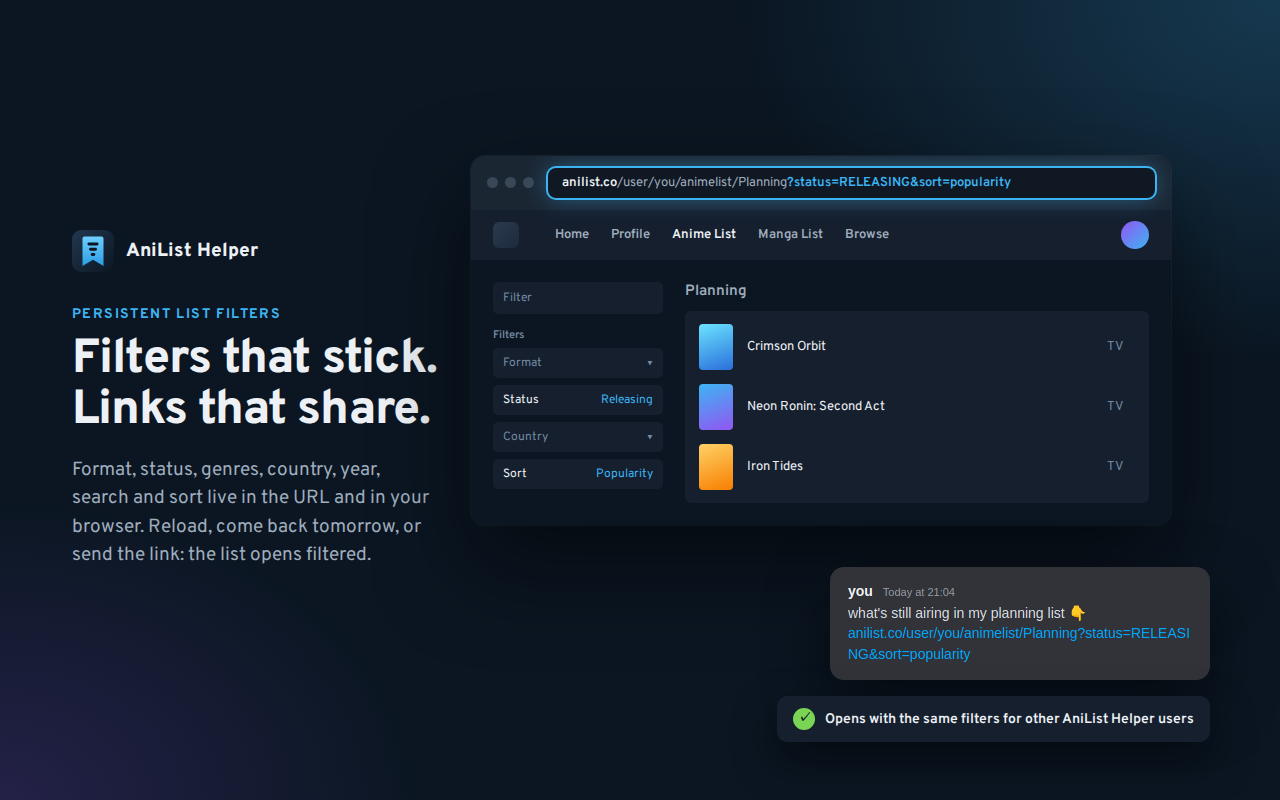
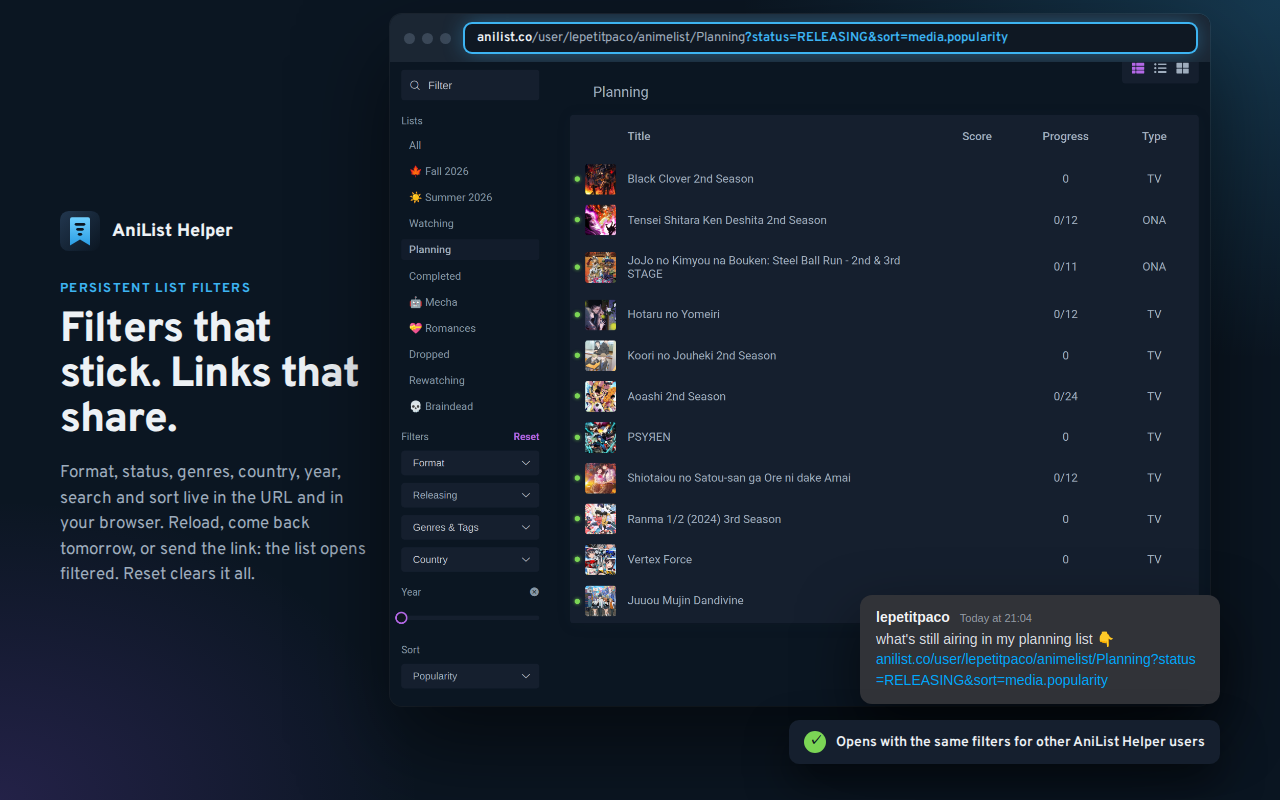
Use real AniList screenshots for the store visuals
store/capture.mjs takes the screenshots on anilist.co with the extension
loaded (one page at a time, as AniList rate limits), scenes.html crops
and frames them. Replaces the mocked interface and the simulated popup.

diff --git a/store/scenes.html b/store/scenes.html
@@ -3,7 +3,8 @@
 <!--
   Store visuals (Chrome Web Store, Firefox Add-ons, GitHub Pages), rendered by store/render.mjs.
   One scene per anchor: #hero, #filters, #bookmarks, #preferences, #popup, #promo, #marquee.
-  AniList's interface is mocked with fictional titles and gradient covers.
+  The pictures are real screenshots of anilist.co with the extension loaded, taken by
+  store/capture.mjs (1440x900 CSS pixels) and cropped here with .crop (--x, --y, --w, --h).
 -->
 <head>
   <meta charset="utf-8">
@@ -13,12 +14,9 @@
     :root {
       --bg: #0b1622;
       --fg: #151f2e;
-      --fg-2: #1c2a3d;
       --text: #9fadbd;
       --bright: #edf1f5;
-      --muted: #728aa1;
       --blue: #3db4f2;
-      --red: #ec294b;
       --green: #7bd555;
     }
     * { box-sizing: border-box; }
@@ -34,130 +32,59 @@
     }
 
     /* Copy column */
-    .copy { width: 470px; flex: none; padding: 0 30px 0 72px; display: flex; flex-direction: column; justify-content: center; }
-    .brand { display: flex; align-items: center; gap: 12px; font-weight: 800; font-size: 19px; color: var(--bright); margin-bottom: 34px; }
-    .brand img { width: 42px; height: 42px; }
-    .kicker { font-weight: 700; font-size: 14px; letter-spacing: .1em; text-transform: uppercase; color: var(--blue); margin-bottom: 12px; }
-    h1 { font-size: 48px; line-height: 1.05; letter-spacing: -.02em; margin: 0 0 20px; font-weight: 800; color: var(--bright); }
-    .lead { font-size: 19px; line-height: 1.5; margin: 0; }
-    .points { list-style: none; padding: 0; margin: 28px 0 0; display: grid; gap: 12px; font-size: 16px; color: var(--bright); }
+    .copy { width: 400px; flex: none; padding: 0 20px 0 60px; display: flex; flex-direction: column; justify-content: center; }
+    .brand { display: flex; align-items: center; gap: 12px; font-weight: 800; font-size: 18px; color: var(--bright); margin-bottom: 30px; }
+    .brand img { width: 40px; height: 40px; }
+    .kicker { font-weight: 700; font-size: 13px; letter-spacing: .1em; text-transform: uppercase; color: var(--blue); margin-bottom: 12px; }
+    h1 { font-size: 42px; line-height: 1.06; letter-spacing: -.02em; margin: 0 0 18px; font-weight: 800; color: var(--bright); }
+    .lead { font-size: 17px; line-height: 1.5; margin: 0; }
+    .points { list-style: none; padding: 0; margin: 24px 0 0; display: grid; gap: 10px; font-size: 15px; color: var(--bright); }
     .points li { display: flex; gap: 12px; align-items: baseline; }
     .points li::before { content: ""; flex: 0 0 8px; height: 8px; border-radius: 50%; background: var(--blue); transform: translateY(-2px); }
-    .stage { flex: 1; display: flex; align-items: center; justify-content: center; position: relative; padding-right: 48px; }
+    .stage { flex: 1; display: flex; flex-direction: column; align-items: center; justify-content: center; gap: 18px; position: relative; padding-right: 40px; }
 
-    /* Browser window */
-    .browser { width: 740px; border-radius: 14px; overflow: hidden; background: var(--bg); box-shadow: 0 40px 90px rgba(0, 0, 0, .55), 0 0 0 1px rgba(255, 255, 255, .06); }
-    .chrome { display: flex; align-items: center; gap: 14px; padding: 12px 16px; background: #1b2633; }
+    /* Browser window around a cropped capture */
+    .browser { width: 820px; border-radius: 12px; overflow: hidden; background: var(--bg); box-shadow: 0 40px 90px rgba(0, 0, 0, .55), 0 0 0 1px rgba(255, 255, 255, .07); }
+    .chrome { display: flex; align-items: center; gap: 14px; padding: 10px 14px; background: #1b2633; }
     .dots { display: flex; gap: 7px; }
     .dots i { width: 11px; height: 11px; border-radius: 50%; background: #3a4757; }
-    .url { flex: 1; padding: 7px 14px; border-radius: 8px; background: #0f1823; font-size: 13px; color: var(--text); white-space: nowrap; overflow: hidden; text-overflow: ellipsis; }
+    .url { flex: 1; padding: 6px 12px; border-radius: 7px; background: #0f1823; font-size: 13px; white-space: nowrap; overflow: hidden; text-overflow: ellipsis; }
     .url b { color: var(--bright); font-weight: 600; }
     .url .q { color: var(--blue); font-weight: 600; }
-    .url.glow { box-shadow: 0 0 0 2px var(--blue), 0 0 24px rgba(61, 180, 242, .45); }
+    .url.glow { box-shadow: 0 0 0 2px var(--blue), 0 0 22px rgba(61, 180, 242, .45); }
+    .crop { position: relative; width: 100%; aspect-ratio: calc(var(--w) / var(--h)); overflow: hidden; }
+    .crop img {
+      position: absolute;
+      width: calc(1440 / var(--w) * 100%);
+      left: calc(var(--x) / var(--w) * -100%);
+      top: calc(var(--y) / var(--h) * -100%);
+    }
 
-    /* AniList-like page */
-    .nav { display: flex; align-items: center; gap: 22px; padding: 0 22px; height: 50px; background: var(--fg); font-size: 13px; font-weight: 600; }
-    .nav .logo { width: 26px; height: 26px; border-radius: 6px; background: linear-gradient(135deg, #2b3a4d, #1c2a3d); margin-right: 14px; }
-    .nav a.on { color: var(--bright); }
-    .nav .bm { color: var(--blue); position: relative; }
-    .nav .spacer { flex: 1; }
-    .nav .me { width: 28px; height: 28px; border-radius: 50%; background: linear-gradient(135deg, #9256f3, #3db4f2); }
-    .page { display: flex; gap: 22px; padding: 22px; }
-    .side { width: 170px; flex: none; font-size: 12px; }
-    .side .search { padding: 8px 10px; border-radius: 5px; background: var(--fg); color: var(--muted); margin-bottom: 14px; }
-    .side h4 { margin: 12px 0 6px; font-size: 11px; color: var(--muted); font-weight: 600; }
-    .side .item { padding: 5px 8px; border-radius: 4px; }
-    .side .item.on { background: var(--fg); color: var(--bright); }
-    .select { display: flex; justify-content: space-between; padding: 7px 10px; margin-bottom: 7px; border-radius: 5px; background: var(--fg); color: var(--muted); }
-    .select.set { color: var(--bright); }
-    .select.set span:last-child { color: var(--blue); }
-    .tags { display: flex; gap: 5px; margin-bottom: 7px; }
-    .tags span { padding: 3px 7px; border-radius: 4px; background: var(--blue); color: #fff; font-size: 11px; font-weight: 600; }
-    .list { flex: 1; min-width: 0; }
-    .list h3 { margin: 0 0 10px; font-size: 15px; color: var(--text); font-weight: 600; }
-    .table { border-radius: 6px; background: var(--fg); padding: 6px 0; }
-    .row { display: flex; align-items: center; gap: 14px; padding: 7px 14px; font-size: 13px; }
-    .row .cv { width: 34px; height: 46px; border-radius: 4px; flex: none; }
-    .row .t { flex: 1; color: var(--bright); }
-    .row .s { width: 44px; text-align: center; }
-    .row .p { width: 54px; text-align: center; }
-    .row .f { width: 40px; text-align: center; color: var(--muted); }
-
-    .c1 { background: linear-gradient(160deg, #ff9a62, #ec294b); }
-    .c2 { background: linear-gradient(160deg, #3db4f2, #9256f3); }
-    .c3 { background: linear-gradient(160deg, #7bd555, #1e8a6b); }
-    .c4 { background: linear-gradient(160deg, #f779a4, #9256f3); }
-    .c5 { background: linear-gradient(160deg, #ffd166, #f77f00); }
-    .c6 { background: linear-gradient(160deg, #6be3ff, #2a6fdb); }
-
-    /* Media page header */
-    .media-head { display: flex; gap: 26px; padding: 26px; background: linear-gradient(180deg, #1a2638 0%, var(--fg) 100%); }
-    .media-head .cover { width: 150px; height: 212px; border-radius: 6px; flex: none; }
-    .media-head h2 { margin: 6px 0 10px; font-size: 22px; color: var(--bright); font-weight: 700; }
-    .media-head p { margin: 0; font-size: 13px; line-height: 1.6; }
-    .actions { display: flex; gap: 10px; margin-top: 14px; }
-    .btn { height: 36px; border-radius: 5px; display: grid; place-items: center; color: #fff; font-size: 13px; font-weight: 600; }
-    .btn.status { width: 116px; background: var(--blue); }
-    .btn.heart { width: 36px; background: var(--red); }
-    .btn.bmk { width: 36px; background: var(--blue); }
-    .btn.glow { box-shadow: 0 0 0 3px rgba(61, 180, 242, .35), 0 0 26px rgba(61, 180, 242, .6); }
-    .btn svg { width: 15px; height: 15px; }
-
-    /* Bookmarks panel */
-    .panel { position: absolute; width: 300px; border-radius: 6px; background: var(--fg); box-shadow: 0 18px 40px rgba(0, 0, 0, .5); font-size: 12px; overflow: hidden; }
-    .panel .ph { display: flex; align-items: center; justify-content: space-between; padding: 11px 13px; border-bottom: 1px solid rgba(159, 173, 189, .15); color: var(--bright); font-weight: 700; font-size: 13px; }
-    .panel .ph span:last-child { padding: 5px 9px; border-radius: 4px; background: rgba(159, 173, 189, .2); color: var(--text); font-size: 12px; }
-    .panel h5 { margin: 10px 13px 5px; font-size: 10px; letter-spacing: .05em; text-transform: uppercase; color: var(--muted); }
-    .panel .bm-row { display: flex; align-items: center; gap: 10px; padding: 5px 13px; }
-    .panel .bm-row .cv { width: 26px; height: 36px; border-radius: 3px; flex: none; }
-    .panel .bm-row b { display: block; color: var(--bright); font-weight: 600; }
-    .panel .bm-row small { color: var(--muted); font-size: 11px; }
-    .chips { display: flex; flex-wrap: wrap; gap: 5px; padding: 0 13px 12px; }
-    .chips span { padding: 4px 8px; border-radius: 4px; background: rgba(159, 173, 189, .12); font-size: 11px; }
-
-    /* Chat bubble (filters scene) */
-    .bubble { position: absolute; width: 380px; padding: 16px 18px; border-radius: 14px; background: #313338; color: #dbdee1; box-shadow: 0 24px 60px rgba(0, 0, 0, .5); font-family: -apple-system, "Segoe UI", sans-serif; }
+    /* Callouts */
+    .bubble { position: absolute; width: 360px; padding: 14px 16px; border-radius: 12px; background: #313338; color: #dbdee1; box-shadow: 0 24px 60px rgba(0, 0, 0, .55); font-family: -apple-system, "Segoe UI", sans-serif; }
     .bubble .who { font-weight: 600; color: #f2f3f5; font-size: 14px; margin-bottom: 4px; }
     .bubble .who time { font-weight: 400; color: #949ba4; font-size: 11px; margin-left: 6px; }
     .bubble p { margin: 0; font-size: 14px; line-height: 1.45; }
     .bubble a { color: #00a8fc; text-decoration: none; word-break: break-all; }
-    .toast { position: absolute; display: flex; align-items: center; gap: 10px; padding: 12px 16px; border-radius: 10px; background: var(--fg); color: var(--bright); font-size: 14px; font-weight: 600; box-shadow: 0 18px 40px rgba(0, 0, 0, .5); }
+    .toast { position: absolute; display: flex; align-items: center; gap: 10px; padding: 11px 15px; border-radius: 10px; background: var(--fg); color: var(--bright); font-size: 14px; font-weight: 600; box-shadow: 0 18px 40px rgba(0, 0, 0, .5); }
     .toast i { width: 22px; height: 22px; border-radius: 50%; background: var(--green); display: grid; place-items: center; color: var(--bg); font-style: normal; font-weight: 800; font-size: 13px; }
+    .label { align-self: flex-start; margin: 0 0 -8px 2px; font-size: 13px; font-weight: 700; color: var(--bright); }
+    .label em { font-style: normal; color: var(--green); font-weight: 600; margin-left: 8px; }
 
-    /* Preference cards */
-    .cards { display: grid; gap: 18px; width: 620px; }
-    .card { padding: 20px 22px; border-radius: 10px; background: var(--fg); box-shadow: 0 20px 50px rgba(0, 0, 0, .4); }
-    .card .label { display: flex; justify-content: space-between; align-items: center; margin-bottom: 14px; font-size: 13px; color: var(--muted); font-weight: 600; }
-    .card .label em { font-style: normal; color: var(--green); font-size: 12px; }
-    .card .label em::before { content: "✓ "; }
-    .card .ui { display: flex; align-items: center; gap: 12px; }
-    .dropdown { padding: 9px 14px; border-radius: 5px; background: var(--fg-2); color: var(--bright); font-size: 14px; min-width: 150px; display: flex; justify-content: space-between; gap: 20px; }
-    .va { display: flex; align-items: center; gap: 10px; padding: 6px 10px 6px 6px; border-radius: 5px; background: var(--fg-2); font-size: 12px; }
-    .va .face { width: 34px; height: 34px; border-radius: 4px; }
-    .va b { display: block; color: var(--bright); font-weight: 600; }
-    .seg { display: flex; border-radius: 5px; overflow: hidden; background: var(--fg-2); font-size: 13px; }
-    .seg span { padding: 9px 14px; }
-    .seg span.on { background: var(--blue); color: #fff; font-weight: 600; }
-    .check { display: flex; align-items: center; gap: 8px; font-size: 13px; color: var(--bright); }
-    .check i { width: 16px; height: 16px; border-radius: 3px; background: var(--blue); display: grid; place-items: center; color: #fff; font-style: normal; font-size: 11px; }
-
-    /* Popup scene */
-    .popup-shot { width: 380px; border-radius: 12px; box-shadow: 0 40px 90px rgba(0, 0, 0, .55), 0 0 0 1px rgba(255, 255, 255, .06); }
+    .popup-shot { width: 360px; border-radius: 12px; box-shadow: 0 40px 90px rgba(0, 0, 0, .55), 0 0 0 1px rgba(255, 255, 255, .07); }
 
     /* Promo tiles */
-    #promo { flex-direction: column; align-items: center; justify-content: center; text-align: center; gap: 14px; }
+    #promo { flex-direction: column; align-items: center; justify-content: center; text-align: center; gap: 12px; }
     #promo img { width: 84px; height: 84px; }
     #promo h1 { font-size: 34px; margin: 0; }
-    #promo p { margin: 0; font-size: 15px; color: var(--text); }
+    #promo p { margin: 0; font-size: 15px; }
     #marquee .copy { width: 560px; padding-left: 90px; }
-    #marquee h1 { font-size: 54px; }
+    #marquee h1 { font-size: 52px; }
   </style>
 </head>
 <body>
 
-<template id="bookmark-icon"><svg viewBox="0 0 24 24" fill="currentColor"><path d="M6 2h12a1 1 0 0 1 1 1v19l-7-4.5L5 22V3a1 1 0 0 1 1-1z"/></svg></template>
-
-<!-- 1. Hero -->
+<!-- 1. Hero: filtered list opened from a link -->
 <section class="scene backdrop" id="hero">
   <div class="copy">
     <div class="brand"><img src="icon.svg" alt="">AniList Helper</div>
@@ -173,30 +100,8 @@
   </div>
   <div class="stage">
     <div class="browser">
-      <div class="chrome"><div class="dots"><i></i><i></i><i></i></div><div class="url glow"><b>anilist.co</b>/user/you/animelist<span class="q">?format=TV&amp;genres=Action,Comedy&amp;sort=score</span></div></div>
-      <div class="nav"><span class="logo"></span><a>Home</a><a>Profile</a><a class="on">Anime List</a><a>Manga List</a><a>Browse</a><a>Forum</a><a class="bm">Bookmarks</a><span class="spacer"></span><span class="me"></span></div>
-      <div class="page">
-        <div class="side">
-          <div class="search">Filter</div>
-          <h4>Lists</h4>
-          <div class="item">All</div><div class="item on">Watching</div><div class="item">Planning</div><div class="item">Completed</div>
-          <h4>Filters</h4>
-          <div class="select set"><span>Format</span><span>TV</span></div>
-          <div class="tags"><span>Action</span><span>Comedy</span></div>
-          <div class="select"><span>Status</span><span>▾</span></div>
-          <div class="select set"><span>Sort</span><span>Score</span></div>
-        </div>
-        <div class="list">
-          <h3>Watching</h3>
-          <div class="table">
-            <div class="row"><span class="cv c1"></span><span class="t">Starfall Academy</span><span class="s">9</span><span class="p">8/12</span><span class="f">TV</span></div>
-            <div class="row"><span class="cv c2"></span><span class="t">Neon Ronin: Second Act</span><span class="s">8.5</span><span class="p">5/13</span><span class="f">TV</span></div>
-            <div class="row"><span class="cv c3"></span><span class="t">The Lunar Bakery</span><span class="s">8</span><span class="p">10/24</span><span class="f">TV</span></div>
-            <div class="row"><span class="cv c4"></span><span class="t">Paper Spirits</span><span class="s">7.5</span><span class="p">3/12</span><span class="f">TV</span></div>
-            <div class="row"><span class="cv c5"></span><span class="t">Iron Tides</span><span class="s">7</span><span class="p">17/25</span><span class="f">TV</span></div>
-          </div>
-        </div>
-      </div>
+      <div class="chrome"><div class="dots"><i></i><i></i><i></i></div><div class="url glow"><b>anilist.co</b>/user/lepetitpaco/animelist<span class="q">?format=TV&amp;genres=Action,Comedy&amp;sort=score</span></div></div>
+      <div class="crop" style="--x: 185; --y: 60; --w: 1070; --h: 840;"><img src="captures/list-filters.png" alt=""></div>
     </div>
   </div>
 </section>
@@ -207,36 +112,18 @@
     <div class="brand"><img src="icon.svg" alt="">AniList Helper</div>
     <div class="kicker">Persistent list filters</div>
     <h1>Filters that stick. Links that share.</h1>
-    <p class="lead">Format, status, genres, country, year, search and sort live in the URL and in your browser. Reload, come back tomorrow, or send the link: the list opens filtered.</p>
+    <p class="lead">Format, status, genres, country, year, search and sort live in the URL and in your browser. Reload, come back tomorrow, or send the link: the list opens filtered. Reset clears it all.</p>
   </div>
   <div class="stage">
-    <div class="browser" style="width: 700px; transform: translate(-30px, -60px);">
-      <div class="chrome"><div class="dots"><i></i><i></i><i></i></div><div class="url glow"><b>anilist.co</b>/user/you/animelist/Planning<span class="q">?status=RELEASING&amp;sort=popularity</span></div></div>
-      <div class="nav"><span class="logo"></span><a>Home</a><a>Profile</a><a class="on">Anime List</a><a>Manga List</a><a>Browse</a><span class="spacer"></span><span class="me"></span></div>
-      <div class="page">
-        <div class="side">
-          <div class="search">Filter</div>
-          <h4>Filters</h4>
-          <div class="select"><span>Format</span><span>▾</span></div>
-          <div class="select set"><span>Status</span><span>Releasing</span></div>
-          <div class="select"><span>Country</span><span>▾</span></div>
-          <div class="select set"><span>Sort</span><span>Popularity</span></div>
-        </div>
-        <div class="list">
-          <h3>Planning</h3>
-          <div class="table">
-            <div class="row"><span class="cv c6"></span><span class="t">Crimson Orbit</span><span class="f">TV</span></div>
-            <div class="row"><span class="cv c2"></span><span class="t">Neon Ronin: Second Act</span><span class="f">TV</span></div>
-            <div class="row"><span class="cv c5"></span><span class="t">Iron Tides</span><span class="f">TV</span></div>
-          </div>
-        </div>
-      </div>
+    <div class="browser" style="transform: translate(-20px, -40px);">
+      <div class="chrome"><div class="dots"><i></i><i></i><i></i></div><div class="url glow"><b>anilist.co</b>/user/lepetitpaco/animelist/Planning<span class="q">?status=RELEASING&amp;sort=media.popularity</span></div></div>
+      <div class="crop" style="--x: 185; --y: 60; --w: 1070; --h: 840;"><img src="captures/list-planning.png" alt=""></div>
     </div>
-    <div class="bubble" style="right: 70px; bottom: 120px;">
-      <div class="who">you <time>Today at 21:04</time></div>
-      <p>what's still airing in my planning list 👇<br><a>anilist.co/user/you/animelist/Planning?status=RELEASING&amp;sort=popularity</a></p>
+    <div class="bubble" style="right: 60px; bottom: 96px;">
+      <div class="who">lepetitpaco <time>Today at 21:04</time></div>
+      <p>what's still airing in my planning list 👇<br><a>anilist.co/user/lepetitpaco/animelist/Planning?status=RELEASING&amp;sort=media.popularity</a></p>
     </div>
-    <div class="toast" style="right: 70px; bottom: 58px;"><i>✓</i>Opens with the same filters for other AniList Helper users</div>
+    <div class="toast" style="right: 60px; bottom: 36px;"><i>✓</i>Opens with the same filters for other AniList Helper users</div>
   </div>
 </section>
 
@@ -249,32 +136,9 @@
     <p class="lead">Save any anime, manga, character, staff or studio with the button next to the heart. Find them, and handy shortcuts, under <b style="color: var(--bright)">Bookmarks</b> in the top bar or with Alt+B.</p>
   </div>
   <div class="stage">
-    <div class="browser" style="position: relative;">
-      <div class="chrome"><div class="dots"><i></i><i></i><i></i></div><div class="url"><b>anilist.co</b>/anime/1/starfall-academy</div></div>
-      <div class="nav"><span class="logo"></span><a>Home</a><a>Profile</a><a>Anime List</a><a>Manga List</a><a>Browse</a><a>Forum</a><a class="bm">Bookmarks</a><span class="spacer"></span><span class="me"></span></div>
-      <div class="media-head">
-        <div>
-          <div class="cover c1"></div>
-          <div class="actions"><div class="btn status">Watching</div><div class="btn heart">♥</div><div class="btn bmk glow" data-icon></div></div>
-        </div>
-        <div style="max-width: 300px;">
-          <h2>Starfall Academy</h2>
-          <p>Students at a school orbiting a dying star race to rebuild the academy's last working telescope before the light goes out for good.</p>
-        </div>
-      </div>
-      <div style="height: 150px; background: var(--bg);"></div>
-      <div class="panel" style="top: 100px; right: 40px;">
-        <div class="ph"><span>Bookmarks</span><span>Bookmarked</span></div>
-        <h5>Bookmarks</h5>
-        <div class="bm-row"><span class="cv c1"></span><span><b>Starfall Academy</b><small>Anime</small></span></div>
-        <div class="bm-row"><span class="cv c4"></span><span><b>Mira Okonkwo</b><small>Staff</small></span></div>
-        <div class="bm-row"><span class="cv c6"></span><span><b>Crimson Orbit</b><small>Manga</small></span></div>
-        <div class="bm-row"><span class="cv" style="background: var(--fg-2)"></span><span><b>Fall 2026, TV, by popularity</b><small>/search/anime?season=FALL…</small></span></div>
-        <h5>My pages</h5>
-        <div class="chips"><span>Anime List</span><span>Manga List</span><span>Stats</span><span>Favorites</span><span>Social</span></div>
-        <h5>Browse</h5>
-        <div class="chips"><span>This Season</span><span>Next Season</span><span>Trending Anime</span><span>Top 100 Anime</span></div>
-      </div>
+    <div class="browser">
+      <div class="chrome"><div class="dots"><i></i><i></i><i></i></div><div class="url"><b>anilist.co</b>/anime/16498/Shingeki-no-Kyojin/</div></div>
+      <div class="crop" style="--x: 185; --y: 0; --w: 1070; --h: 640;"><img src="captures/bookmarks-panel.png" alt=""></div>
     </div>
   </div>
 </section>
@@ -285,32 +149,16 @@
     <div class="brand"><img src="icon.svg" alt="">AniList Helper</div>
     <div class="kicker">Remembered preferences</div>
     <h1>Pick it once. It stays.</h1>
-    <p class="lead">AniList resets these on every page. AniList Helper keeps your choice, in your browser only.</p>
+    <p class="lead">AniList resets these on every page. AniList Helper keeps your choice: voice actor language, stats sorting, and role sorting on staff and character pages.</p>
   </div>
   <div class="stage">
-    <div class="cards">
-      <div class="card">
-        <div class="label">Anime › Characters: voice actor language <em>Remembered</em></div>
-        <div class="ui">
-          <div class="dropdown"><span>French</span><span>▾</span></div>
-          <div class="va"><span class="face c2"></span><span><b>Camille Laurent</b>French</span></div>
-          <div class="va"><span class="face c3"></span><span><b>Hugo Bernard</b>French</span></div>
-        </div>
-      </div>
-      <div class="card">
-        <div class="label">Stats › Genres: sorting <em>Remembered per stats page</em></div>
-        <div class="ui">
-          <div class="seg"><span>Count</span><span>Time Watched</span><span class="on">Mean Score</span></div>
-          <div class="seg"><span class="on">Anime</span><span>Characters</span></div>
-        </div>
-      </div>
-      <div class="card">
-        <div class="label">Staff &amp; characters › roles <em>Remembered</em></div>
-        <div class="ui">
-          <div class="dropdown"><span>Popularity</span><span>▾</span></div>
-          <div class="check"><i>✓</i>On my list</div>
-        </div>
-      </div>
+    <div class="label">Characters tab<em>✓ French, on every anime</em></div>
+    <div class="browser" style="width: 780px;">
+      <div class="crop" style="--x: 440; --y: 80; --w: 815; --h: 285;"><img src="captures/voice-actors.png" alt=""></div>
+    </div>
+    <div class="label">Stats<em>✓ Mean Score, per stats page</em></div>
+    <div class="browser" style="width: 780px;">
+      <div class="crop" style="--x: 395; --y: 0; --w: 860; --h: 255;"><img src="captures/stats.png" alt=""></div>
     </div>
   </div>
 </section>
@@ -321,14 +169,14 @@
     <div class="brand"><img src="icon.svg" alt="">AniList Helper</div>
     <div class="kicker">Your call</div>
     <h1>Turn any feature on or off.</h1>
-    <p class="lead">Every tweak has its own switch, applied right away on open AniList tabs.</p>
+    <p class="lead">Every tweak has its own switch, and you choose where the bookmark buttons show up. Changes apply right away.</p>
     <ul class="points">
       <li>No AniList API calls, nothing changed on your account</li>
       <li>No tracking, no analytics</li>
       <li>Open source</li>
     </ul>
   </div>
-  <div class="stage"><img class="popup-shot" src="build/popup.png" alt=""></div>
+  <div class="stage"><img class="popup-shot" src="captures/popup.png" alt=""></div>
 </section>
 
 <!-- Small promo tile 440x280 -->
@@ -345,31 +193,15 @@
     <h1>Your AniList, remembered.</h1>
     <p class="lead">Persistent and shareable list filters, one-click bookmarks, remembered sorting and voice actor language.</p>
   </div>
-  <div class="stage" style="justify-content: flex-start; padding-left: 40px;">
-    <div class="browser" style="width: 700px; transform: translateY(60px);">
-      <div class="chrome"><div class="dots"><i></i><i></i><i></i></div><div class="url glow"><b>anilist.co</b>/user/you/animelist<span class="q">?format=TV&amp;genres=Action,Comedy</span></div></div>
-      <div class="nav"><span class="logo"></span><a>Home</a><a>Profile</a><a class="on">Anime List</a><a>Manga List</a><a>Browse</a><a class="bm">Bookmarks</a><span class="spacer"></span><span class="me"></span></div>
-      <div class="page">
-        <div class="side">
-          <h4>Filters</h4>
-          <div class="select set"><span>Format</span><span>TV</span></div>
-          <div class="tags"><span>Action</span><span>Comedy</span></div>
-        </div>
-        <div class="list">
-          <div class="table">
-            <div class="row"><span class="cv c1"></span><span class="t">Starfall Academy</span><span class="s">9</span></div>
-            <div class="row"><span class="cv c2"></span><span class="t">Neon Ronin: Second Act</span><span class="s">8.5</span></div>
-            <div class="row"><span class="cv c3"></span><span class="t">The Lunar Bakery</span><span class="s">8</span></div>
-          </div>
-        </div>
-      </div>
+  <div class="stage" style="align-items: flex-start; padding-left: 30px;">
+    <div class="browser" style="width: 720px; transform: translateY(70px);">
+      <div class="chrome"><div class="dots"><i></i><i></i><i></i></div><div class="url glow"><b>anilist.co</b>/user/lepetitpaco/animelist<span class="q">?format=TV&amp;genres=Action,Comedy</span></div></div>
+      <div class="crop" style="--x: 185; --y: 60; --w: 1070; --h: 840;"><img src="captures/list-filters.png" alt=""></div>
     </div>
   </div>
 </section>
 
 <script>
-  const icon = document.getElementById('bookmark-icon').innerHTML;
-  document.querySelectorAll('[data-icon]').forEach(el => { el.innerHTML = icon; });
   const show = () => {
     document.querySelectorAll('.scene').forEach(s => s.classList.toggle('on', '#' + s.id === (location.hash || '#hero')));
   };
